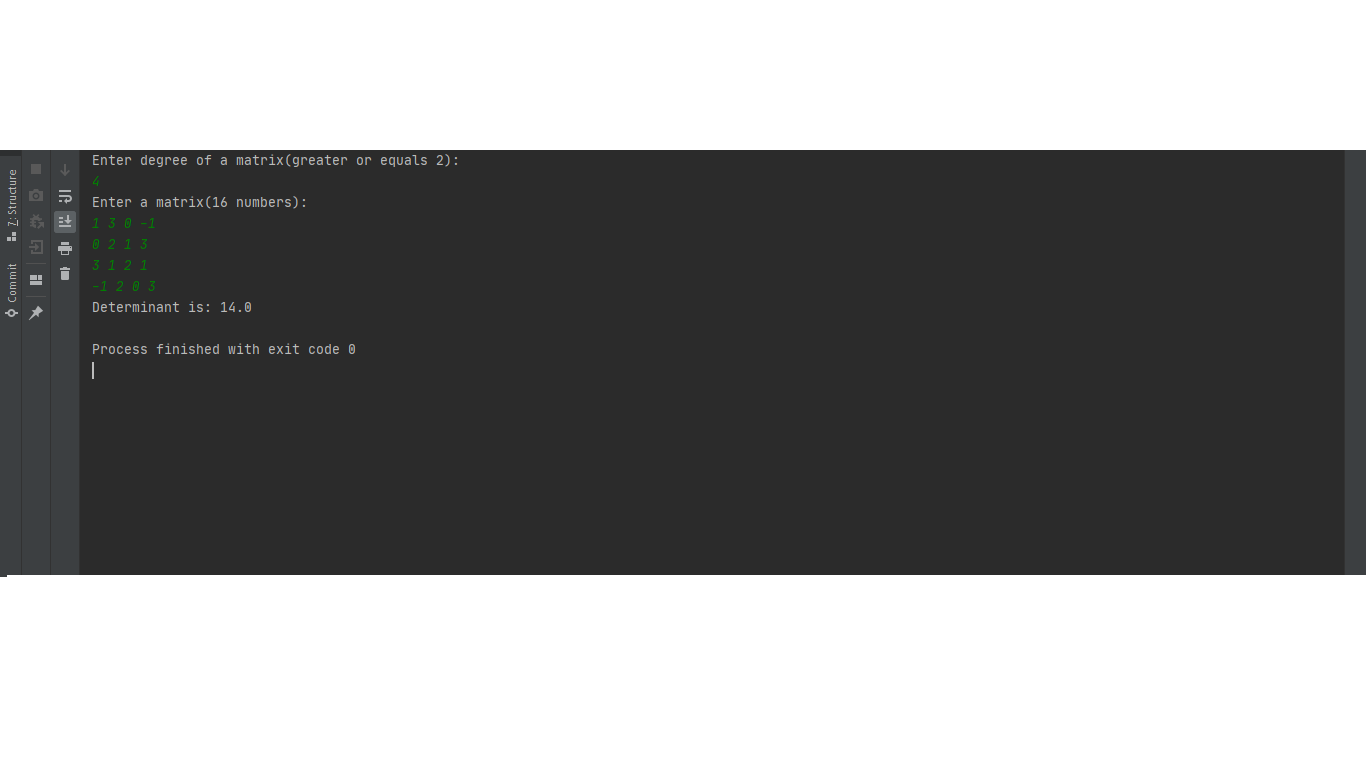
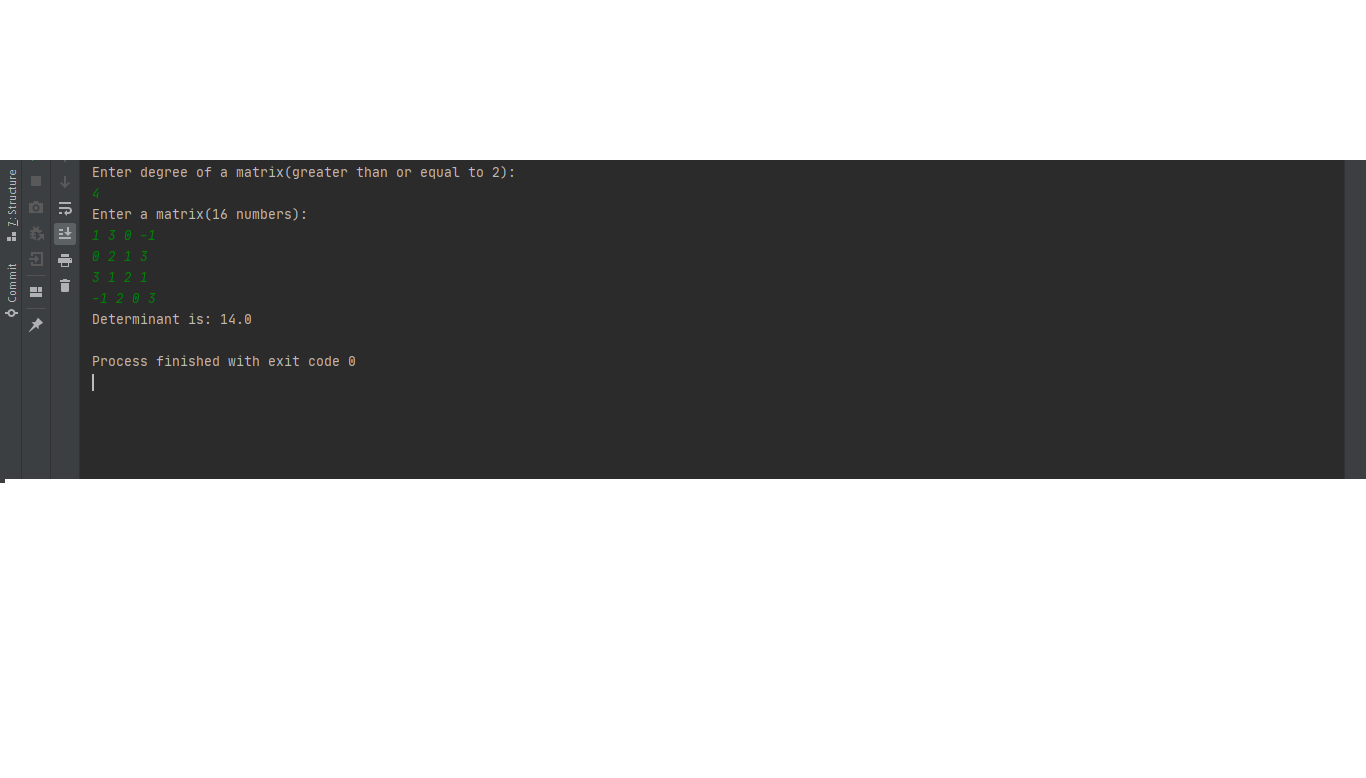
java program

Changed region(s): [[0.0, 0.617, 1.0, 0.7404], [0.0, 0.1851, 1.0, 0.4936]]

diff --git a/src/com/mycompany/Determinant.java b/src/com/mycompany/Determinant.java
@@ -11,7 +11,7 @@ public class Determinant {
         double[][] matrix=null;
         Scanner in=new Scanner(System.in);
         do {
-            System.out.println("Enter degree of a matrix(greater or equals 2):");
+            System.out.println("Enter degree of a matrix(greater than or equal to 2):");
             degreeMatrix=in.nextInt();
         }while (degreeMatrix<2);
 
